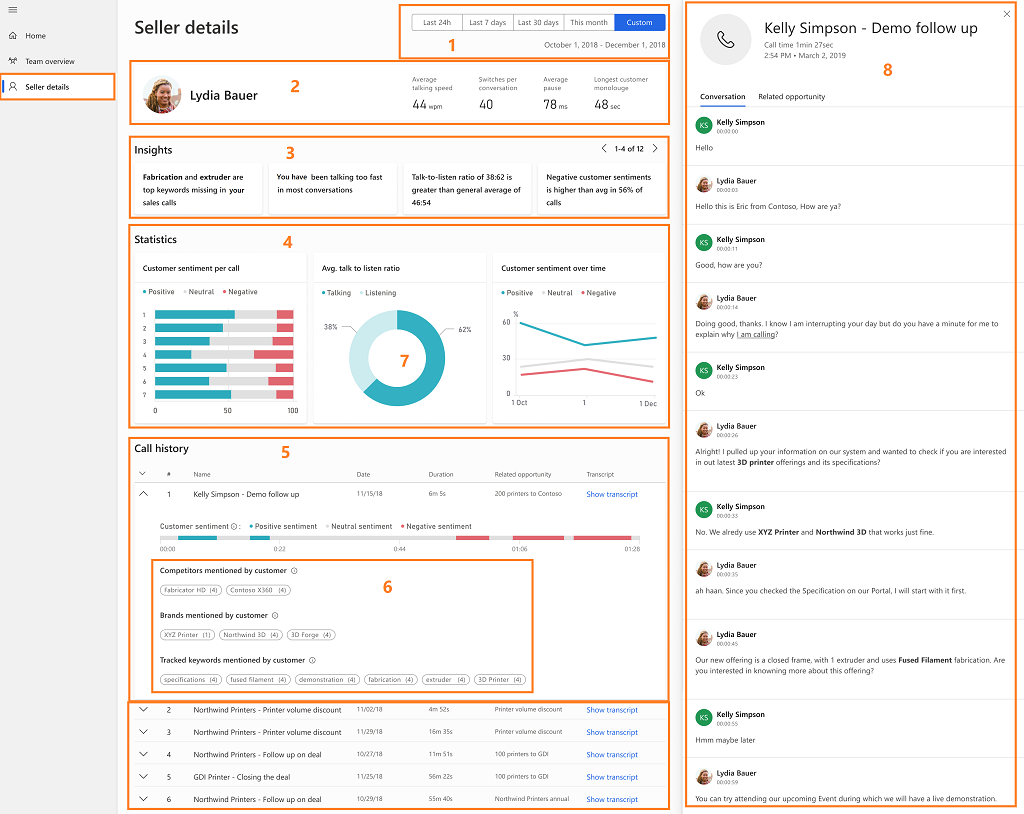
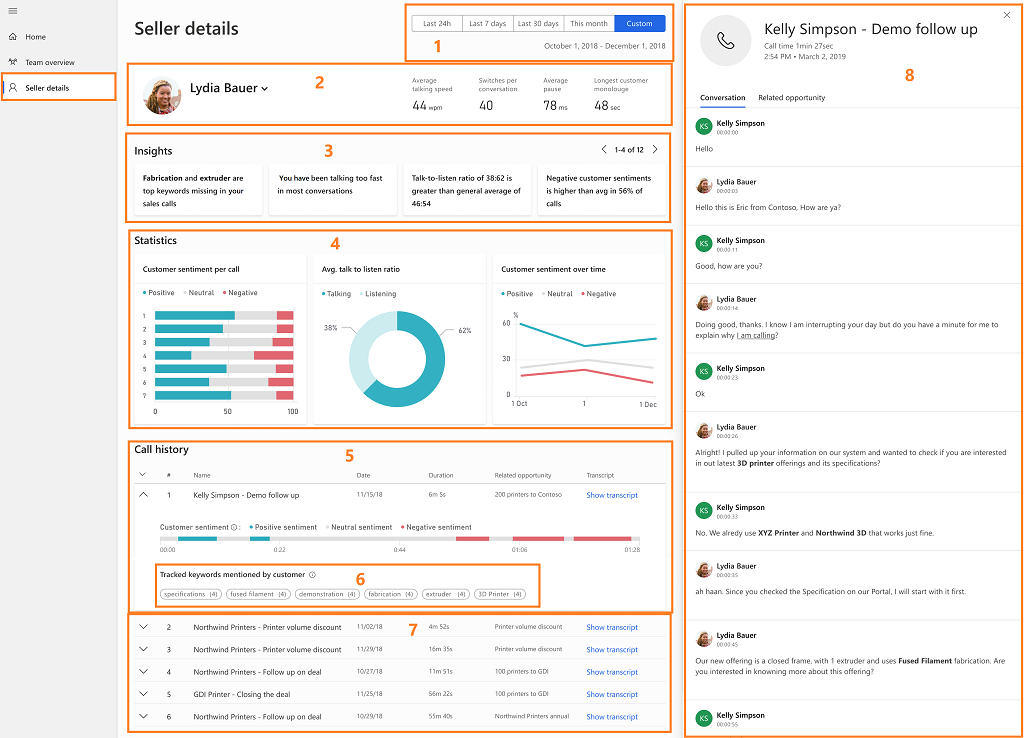
updated

Changed region(s): [[0.0, 0.0, 1.0, 1.0], [0.875, 0.0935, 0.9062, 0.1247]]

diff --git a/ai-docs/sales/dynamics365-sales-insights-app-home-page.md b/ai-docs/sales/dynamics365-sales-insights-app-home-page.md
@@ -20,7 +20,7 @@ caps.latest.revision: 01
 topic-status: Drafting
 ---
 
-# View overall sales and seller insights
+# View and understand home page
 
 Applies to [!INCLUDE[pn-crm-online](../includes/pn-crm-online.md)] version 9.1.0.
 
@@ -75,7 +75,7 @@ The following image is an example of how the base KPIs are displayed.
 
 **What are customers talking about** section helps you to understand what’s happening in sales calls and what customers are talking about. Through these understandings, you can derive coaching scenarios for your sales team so that they could be more efficient during the sales calls. 
 
-This also helps in driving new sales strategic motion by looking at the keywords, brands, and competitors mentioned during the call. For example, 3D printer is trending more during customer calls and the 3D printer sales are not reaching targets. You can coach sales reps in selling the 3D printers more effectively to the customers which are not been selling before.
+This also helps in driving new sales strategic motion by looking at the keywords, brands, and competitors mentioned during the call. For example, 3D printer is trending more during customer calls and the 3D printer sales are not reaching targets. You can coach sellers in selling the 3D printers more effectively to the customers which are not been selling before.
 
 The following insights are available for you to understand what customers are talking about:
 
@@ -89,9 +89,9 @@ The following insights are available for you to understand what customers are ta
 
 ### Tracked keywords
 
-This insight shows the tracked keywords that are defined in the application and customers use the most during the sales calls. The application highlights these tracked keywords in this section. Using these tracked keywords, you can identify new sales opportunities that are related to these tracked keywords. 
+This insight shows the tracked keywords that are defined in the application and customers use the most during the sales calls. The application highlights these tracked keywords in this insight. Using these tracked keywords, you can identify new sales opportunities that are related to these tracked keywords. 
 
-The following image is an example of how the tracked keyword section is displayed:
+The following image is an example of how the tracked keyword insight is displayed:
 
   > [!div class="mx-imgBorder"]
   > ![Most tracked keywords](media/si-app-tracked-keywords.png  "Most tracked keywords")
@@ -107,18 +107,18 @@ This insight shows the number of calls where the negative customers sentiment is
 - You can analyze pain points that customers express during the call and coach your sellers to address to handle the customer conversations well. 
 - You can analyze why customers are expressing these pain points and identify selling opportunities by addressing the gaps that are causing pain points. 
 
-The following image is an example of how the customer sentiment section is displayed:
+The following image is an example of how the customer sentiment insight is displayed:
 
   > [!div class="mx-imgBorder"]
   > ![Customer sentiment](media/si-app-customer-sentiment.png  "Customer sentiment")
 
-In this example, you can see that 43% of calls have higher than average negative customer sentiment. The doughnut chart shows the percentage of calls that are positive, neutral, and negative.
+In this example, you can see that 43% of calls have higher than the average negative customer sentiment. The doughnut chart shows the percentage of calls that are positive, neutral, and negative.
 
 ### Brands detected
 
 This insight helps to discover new products and brands that customers are speaking about in sales calls, which they never spoke of in previous calls. These brands and products are not defined in the application (tracked keywords and competitors) and the application uses Microsoft Bing's knowledge repository to identify the brands and products to display. Using this insight, you can identify if any competitor brands are mentioned on the sales calls and update your sales strategies accordingly.
 
-The following image is an example of how the brands detected section is displayed:
+The following image is an example of how the brands detected insight is displayed:
 
   > [!div class="mx-imgBorder"]
   > ![New brands detected](media/si-app-brands-detected.png  "New brands detected")
@@ -129,7 +129,7 @@ In this example, you can see that 3 brands, Northwind 3D, XYG Printer, and 3D Fo
 
 This insight shows the defined competitor names that customers use most and trending upwards during the sales calls. The application highlights these competitors in this section. Using these competitors, you can identify new sales opportunities that are related to these competitors.
 
-The following image is an example of how the competitors mentioned section is displayed:
+The following image is an example of how the competitors mentioned insight is displayed:
 
   > [!div class="mx-imgBorder"]
   > ![Competitors mentioned](media/si-app-competitors-mentioned.png  "Competitors mentioned")
@@ -160,7 +160,7 @@ The following insights are available for you to understand what characterizes to
 
 This insight shows the average listen and talk ratio of top sellers and rest of the team in conversations with customers. By analyzing this insight, you can understand what working-out for top sellers while in conversation with customers to close deals and generate revenue.
 
-The following image is an example of how the talk-to-listen ratio section is displayed:
+The following image is an example of how the talk-to-listen ratio insight is displayed:
 
   > [!div class="mx-imgBorder"]
   > ![Comparison of Talk-to-listen ratio](media/si-app-talk-to-listen-ratio.png  "Comparison of Talk-to-listen ratio")
@@ -171,18 +171,18 @@ In this example, you can observe that the top sellers talk (60%) more than liste
 
 This insight shows the keywords that are used by the top sellers use more frequently in conversations with customers. By analyzing this insight, you can understand what words the top sellers use that helps them to close deals and generate revenue.
 
-The following image is an example of how the what are they talking about section is displayed:
+The following image is an example of how the what are they talking about insight is displayed:
 
   > [!div class="mx-imgBorder"]
   > ![Keywords top sellers are talking about](media/si-app-what-they-are-talking-about.png  "Keywords that top sellers are talking about")
 
-In this example, you can see that Next steps, Discount, and VIP are the top words mentioned by your top sellers. The bubbles show the top five words that are trending and the number of times that these keywords were mentioned in the calls. The dark-shade bubbles are the trending words.
+In this example, you can see that Next steps, Discount, and VIP are the top words mentioned by your top sellers. The bubbles show the top 20 keywords that are trending and the number of times that these keywords were mentioned in the calls. The dark-shade bubbles are the most trending keywords.
 
 ### Customer sentiment
 
-This section shows how top sellers are doing when compared to the team in terms of positive, neutral, and negative customers sentiments during sales calls. Using this insight, you can analyze what makes the tops sellers more efficient in addressing the customer pain points during the call and how you can coach your other sellers to increase the sentient levels.
+This insight shows how top sellers are doing when compared to the team in terms of positive, neutral, and negative customers sentiments during sales calls. Using this insight, you can analyze what makes the tops sellers more efficient in addressing the customer pain points during the call and how you can coach your other sellers to increase the sentient levels.
 
-The following image is an example of how the customer sentiment section is displayed:
+The following image is an example of how the customer sentiment insight is displayed:
 
   > [!div class="mx-imgBorder"]
   > ![Comparison of customer sentiment](media/si-app-customer-sentiment-top-sellers.png  "Comparison of customer sentiment")
@@ -191,9 +191,9 @@ In this example, you can see that top sellers (42%) are driving more negative cu
 
 ### Switch rate
 
-This section shows the rate of which top sellers are talking and listing in conversations with customers and this indicates a sign of engagement during conversations. Using this insight, you can understand the switch rate of top sellers per hour and identify coaching opportunities for other sellers to improve on switch rate.
+This insight shows the rate of which top sellers are talking and listing in conversations with customers and this indicates a sign of engagement during conversations. Using this insight, you can understand the switch rate of top sellers per hour and identify coaching opportunities for other sellers to improve on switch rate.
 
-The following image is an example of how the switch rate section is displayed:
+The following image is an example of how the switch rate insight is displayed:
 
   > [!div class="mx-imgBorder"]
   > ![Switch rate of talk to listen](media/si-app-switch-rate.png  "Switch rate of talk to listen")
@@ -202,9 +202,9 @@ In this example, you can see that top seller (45 per hour) are switching more du
 
 ### Engagement with customers
 
-This section helps you to understand what type of communication mode that top sellers are spending their time in engaging with customers. Using this insight, you can identify coaching opportunities for other sellers on communication mode in engaging with customers.
+This insight helps you to understand what type of communication mode that top sellers are spending their time in engaging with customers. Using this insight, you can identify coaching opportunities for other sellers on communication mode in engaging with customers.
 
-The following image is an example of how the engagement with customers section is displayed:
+The following image is an example of how the engagement with customers insight is displayed:
 
   > [!div class="mx-imgBorder"]
   > ![Top sellers communication mode](media/si-app-engagement-with-customer.png  "Top sellers communication mode")
@@ -213,7 +213,7 @@ In this example, you can see that top sellers are spending more time on meeting 
 
 ## Are my team’s deals on track?
 
-Are my team’s deals on track section helps you to understand how your team’s opportunities and leads are doing in the current sales period. Through these understanding, you can identify the opportunities and leads with higher revenue that at risk and need your attention to coach the individual sales reps to improve the health.
+Are my team’s deals on track section helps you to understand how your team’s opportunities and leads are doing in the current sales period. Through these understanding, you can identify the opportunities and leads with higher revenue that at risk and need your attention to coach the individual sellers to improve the health.
 
 The following insights are available for you to understand the deals:
 
@@ -222,25 +222,25 @@ The following insights are available for you to understand the deals:
 
 ### Opportunities at risk
 
-This section helps you to understand the opportunities that are high in revenue and at risk so that you can spend more time by coaching the sales rep who is working with these opportunities to turn into a winning deal.
+This insight helps you to understand the opportunities that are high in revenue and at risk so that you can spend more time by coaching the sales rep who is working with these opportunities to turn into a winning deal.
 
-The following image is an example of how the opportunities at risk section is displayed:
+The following image is an example of how the opportunities at risk insight is displayed:
 
   > [!div class="mx-imgBorder"]
   > ![Opportunities that are at risk](media/si-app-opportunities-at-risk.png  "Opportunities that are at risk")
 
-In this example, you can see that opportunities (Red bubbles) that are high in revenue are poor in health score and are at risk. You need to coach the sales reps who are handling these opportunities that are at risk and turn them into a winning deal.
+In this example, you can see that opportunities (Red bubbles) that are high in revenue are poor in health score and are at risk. You need to coach the sellers who are handling these opportunities that are at risk and turn them into a winning deal.
 
 ### Leads at risk
 
-This section helps you to understand the leads that are losing momentum and at risk so that you can spend more time by coaching the sales rep who is working with these leads to turn into opportunities.
+This insight helps you to understand the leads that are losing momentum and at risk so that you can spend more time by coaching the seller who is working with these leads to turn into opportunities.
 
-The following image is an example of how the leads at risk section is displayed:
+The following image is an example of how the leads at risk insight is displayed:
 
   > [!div class="mx-imgBorder"]
   > ![Leads that are at risk](media/si-app-leads-at-risk.png  "Leads that are at risk")
  
-In this example, you can see that leads (Red bubbles) that are losing momentum with poor health score and are at risk. You need to coach the sales reps who are handling these leads that are losing momentum and turn them into opportunities.
+In this example, you can see that leads (Red bubbles) that are losing momentum with poor health score and are at risk. You need to coach the sellers who are handling these leads that are losing momentum and turn them into opportunities.
 
 ## Call recording KPIs
 

diff --git a/ai-docs/sales/conversation-intelligence-seller-details.md b/ai-docs/sales/conversation-intelligence-seller-details.md
@@ -42,7 +42,7 @@ As a sales manager, the **Seller details** page helps you to analyze the overall
 
 -	Comment on call transcripts and share with sellers.
 
-<!--You can provide coaching comments to sales reps through emails.-->
+- You can provide coaching comments to sales reps through emails.
 
 The following image is an example of how the seller page is displayed for sales managers:
 
@@ -58,7 +58,7 @@ Let's look at the KPIs and insights in detail:
 |**3. Insights**|Displays what’s happening with the seller and the latest trends such as customer sentiments and keywords that are trending.|
 |**4. Statistics** |•	**Average customer sentiment level:** Displays the customer sentiments (positive, negative, and neutral) for each call that the seller handled.<br>•	**Average talk to listen ratio:** Displays the average talk and listen ratio of the seller during calls with a customer.<br>•  **Sentiment over time:** Displays how the three customer sentiments (positive, negative, and neutral) are behaving and spanning across the specified timeframe for the seller.|
 |**5. Call history**|Displays the sentiments and keywords across the call. Open a specific call and view the keywords and sentiments across the timeline of the call, go to a moment, and look at the call transcript. Select **Show transcript** to view the conversation transcript.|
-|**6. Brands, tracked Keywords, and competitors**|Displays the defined keywords, competitors, and brands that customers used most during conversations with the seller. Selecting a defined keyword, competitor, or brand highlights the timeline of the conversation where it is mentioned.|
+|**6. Tracked Keywords mentioned by customers**|Displays the defined keywords that customers used most during conversations with the seller. Selecting a defined keyword highlights the timeline of the conversation where it is mentioned.|
 |**7. Calls**|Displays the list of calls handled by the seller. Select the call to display the transcript and timeline. |
 |**8. Transcript**|Provides a written record of the call. You can review the transcript and leave a comment on how the sellers could handle the situation better.<br>On a selected timeline, select **Add comment** to provide necessary inputs to the seller and then select **Save**.<br> The bolded text in the transcript are the brands, tracked keywords, and competitors mentioned in the conversation.|
 
@@ -88,7 +88,7 @@ Let's look at the KPIs and insights in detail:
 |**3. Insights**|Displays what’s happening with you and the latest trends such as customer sentiments and keywords that are trending.|
 |**4. Statistics** |•	**Average customer sentiment level:** Displays the customer sentiments (positive, negative, and neutral) for each call that you have handled.<br>•	**Average talk to listen ratio:** Displays the average talk and listen ratio of you during calls with a customer.<br>•  **Sentiment over time:** Displays how the three customer sentiments (positive, negative, and neutral) are behaving and spanning across the specified timeframe for you.|
 |**5. Call history**|Displays list of calls. Open a specific call and view the keywords and sentiments across the timeline of the call, go to a moment, and look at the call transcript. Select **Show transcript** to view the conversation transcript.|
-|**6. Brands, tracked Keywords, and competitors**|Displays the defined keywords, competitors, and brands that the customer used most during the conversation. Selecting a defined keyword, competitor, or brand highlights the timeline of the conversation on where it is mentioned.|
+|**6. Tracked Keywords mentioned by customers**|Displays the defined keywords that the customer used most during the conversation. Selecting a defined keyword highlights the timeline of the conversation on where it is mentioned.|
 |**7. Calls**|Displays the list of calls handled by you. Select the call to display the transcript and timeline. |
 |**8. Transcript**|Provides a written record of the call. You can review the transcript and comments that are posted by your manager or coach on the timeline. You can provide replies to the comments appropriately.<br>On a selected timeline, select **Add comment** to provide necessary replies or self-comments, and then select **Save**.<br> The bolded text in the transcript are the brands, tracked keywords, and competitors mentioned in the conversation.|
 

diff --git a/ai-docs/sales/faqs-sales-insights-app.md b/ai-docs/sales/faqs-sales-insights-app.md
@@ -1,0 +1,86 @@
+---
+title: "Frequently asked questions for Dynamics 365 Sales Insights | MicrosoftDocs"
+description: "Frequently asked questions for Dynamics 365 Sales Insights app"
+keywords: "FAQs, Dynamics 365 Sales Insights, AI for sales, Sales AI, Sales Insights"
+ms.date: 07/31/2019
+ms.service: crm-online
+ms.custom: 
+ms.topic: article
+applies_to:
+  - "Dynamics 365 (online)"
+  - "Dynamics 365 Version 9.x"
+ms.assetid: 673c693b-9265-4641-bb31-a72b8a97bb3a
+author: udaykirang
+ms.author: udag
+manager: shujoshi
+ms.reviewer: 
+ms.suite: 
+ms.tgt_pltfrm: 
+caps.latest.revision: 01
+topic-status: Drafting
+---
+
+# Frequently asked questions for Sales Insights application
+
+**What languages are supported now?**<br>
+The application supports the following model languages:
+
+- English
+- German
+- French
+- Italian
+- Spanish
+- Japanese
+- Brazilian Portuguese
+- Chinese (simplified)
+
+The application supports the following machine learning model languages for contextual insights capabilities:
+
+- English
+
+
+**When will you expand to support my region?**<br>
+The application is supported in the following regions:
+
+- North American (NAM)
+- Canada (CAN)
+- Europe, the Middle East, and Africa (EMEA)
+- Great Britain (GBR)
+- Japan (JPN)
+- Oceania (OCE)
+- India (IND) 
+
+**How long does it take for data updates to reflect in the app?**<br>
+The data is refreshed periodically and could take up to 12 hours to reflect. We continue to make improvements to reduce this delay.
+
+**Can sellers (or non-managers) use this app?**<br>
+Yes, the application is also available for sellers and can view their conversational insights.
+
+**Is an admin needed to enable the app for my organization?**<br>
+Yes. Administrator must configure the application for you to use. If administrator did not configure the application, you can explore the application with the demo data that is provided.
+
+**Which telephony system do you support?**<br>
+The application is independent of telephony systems. If you have stereo call recordings (two-channel stereo), we process them at scale to generate insights.
+
+**What does the onboarding experience include?** <br>
+As part of the onboarding experience, you must provide the access key to the Azure blob location where you upload your call recording files for processing. You must adhere to standard metadata format (in JSON) of conversation intelligence and upload that along with every call recording file. Apart from this, you must share trackers that you care about along with the competitive brands and products for conversation intelligence to track these words across calls.
+
+**How is the sentiment model built?**<br>
+Conversation intelligence transcribes the calls into text and generates sentiment from the text in the conversation.
+
+**I have mono-channel recording files. Can I still use conversation intelligence?**<br>
+No, we DO NOT process mono-channel call recording files. We only support stereo-type call recording files.
+
+**How long does it take to see the results?**<br>
+Conversation intelligence takes a few minutes to process and display the data on the dashboard, depending on the size of the call recording files and format. You must have at least 10 call recording files to process and display the data.
+
+**Do you retain the call recordings?**<br>
+No. The call recordings are deleted as soon as the audio file is processed.
+
+### See also
+
+- [View home page](dynamics365-sales-insights-app-home-page.md)
+
+- [View team information](conversation-intelligence-team-overview.md)
+
+- [View seller information](conversation-intelligence-seller-details.md)

diff --git a/ai-docs/sales/configure-conversation-intelligence-call-data.md b/ai-docs/sales/configure-conversation-intelligence-call-data.md
@@ -87,6 +87,7 @@ Review the following requirements for audio and JSON files before you upload:
   | | **Note**: You must use at least one parameter from `AgentAADUserId`, `AgentCrmUserId`, or `AgentAccountEmail` while creating a JSON file. When you use other parameters, ensure that the details are specific to the same agent. In the below example JSON file, we have used `AgentAADUserId`. |
   | `CreatedTimestamp`| Specifies the time at which the audio file is created in milliseconds and calculated based on the UNIX Epoch time. For example, when the audio file is **14 Dec 2018 15:00:00 GMT**, then the corresponding Epoch timestamp in milliseconds is **1544779800000**.|
   | `Locale` | Specifies the language used in the call. Currently, we support en-US, en-GB, de-DE, fr-FR, it-IT, es-ES, es-MX, ja-JP, pt-BR, and zh-CN. |
+  | `Id`| Specifies the unique identification code of the call. Generate this code using the GUID generator. |
   | `StartTime` | Specifies the start time of the call in milliseconds and calculated based on the UNIX Epoch time. For example, when the call start time is **14 Dec 2018 12:39:56 GMT**, then the corresponding Epoch timestamp in milliseconds is **1544791196000**. |
   | `Direction` | Specifies whether the call is inbound or outbound. |
   | `FileName` | Specifies the name of the audio file. |
@@ -99,7 +100,6 @@ Review the following requirements for audio and JSON files before you upload:
   | `CallAccountCrmId` |  (Optional) Specifies the unique identification code of the account. |
   | `CallPhoneCallCrmId` | (Optional) Specifies the unique identification code generated in Dynamics 365 for Sales admin center for the sales rep. |
   | `IsAgentRecordingOnly` | (Optional) Specifies the audio file contains only the voice of your sales rep. The value is specified in True or False. By default, the value is False. |
-  | `Id`| (Optional) Specifies the unique identification code of the call. Generate this code using the GUID generator. |  
   | `QueueId`| (Optional) Specifies the unique identification code for the queue. |    
   | `QueueName`| (Optional) Specifies the name of the queue in which the sales rep is on. |  
   | `Provider`| (Optional) Specifies the service provider of the call such as Skype. |  

diff --git a/ai-docs/sales/dynamics365-sales-insights-app.md b/ai-docs/sales/dynamics365-sales-insights-app.md
@@ -30,6 +30,10 @@ This application is designed to help sales managers and sellers in their day-to-
 
 **As a sales manager, you can**
 
+-	Understand what customers are talking about to get strategic insights on trending tracked keywords, brands, and competitors that allows you to design sales strategies and training of your team. To learn more, see [View home page](dynamics365-sales-insights-app-home-page.md)
+
+-	Understand if your opportunities and leads are loosing momentum and be on top them to convert into deals. To learn more, see [Are my team’s deals on track?](dynamics365-sales-insights-app-home-page.md#are-my-teams-deals-on-track). 
+
 -	View and compare what’s happening in sales calls and insights on the behaviors of your top sellers<!--, and the sales pipeline for the timeline-->. To learn more, see [View team information](conversation-intelligence-team-overview.md)
 
 -	View team’s insights, customer sentiment, and team’s conversational style<!--, and sales pipeline-->. To learn more, see [View team information](conversation-intelligence-team-overview.md).

diff --git a/ai-docs/sales/fre-setup-sales-insight-app.md b/ai-docs/sales/fre-setup-sales-insight-app.md
@@ -22,7 +22,7 @@ topic-status: Drafting
 
 # First-run set up experience of Sales Insight application
 
-When you sign into the Sales Insights application, the application will be available for you to use and explore the various features through the provided demo data. However, you must set up .
+When you sign into the Sales Insights application, the application will be available for you to use and explore the various features through the provided demo data.
 After you sign in, you can set up the application depending on the role that is assigned to you.
 
 -	As an administrator, you can set up the complete application including connecting Dynamics 365 environment, grant app permissions, connect call data, enable preview, and define tracked key words and competitors to use the features that the application offers. To learn more, see [Administrator setting up application](#administrator-setting-up-application).

diff --git a/ai-docs/sales/business-qa.md b/ai-docs/sales/business-qa.md
@@ -48,6 +48,12 @@ To get started asking questions, you can use the search text box on the Sales In
 
 On the home page, type a conversational question in the **search** text box and press **Enter**. For example, enter **Which opportunities closed last month?** and the **Answers** screen opens with the potential results that are related to the question.
 
+> [!IMPORTANT]
+> If you don't know how to ask a question, type **help** in the **search** text box and press **Enter**. A list of possible questions that the application can answer is displayed. 
+> > [!div class="mx-imgBorder"]
+> > ![Get help on how to ask a question](media/si-app-q-a-help.png "Get help on how to ask a question")
+
+
 > [!NOTE]
 > You can also open the **Answers** screen by selecting the chat icon.
 

diff --git a/ai-docs/sales/TOC.md b/ai-docs/sales/TOC.md
@@ -34,11 +34,11 @@
 #### [Enable preview features](../sales/enable-preview-features-sales-insights-app.md)
 
 ### User guide
-#### [View overall sales and seller insights](../sales/dynamics365-sales-insights-app-home-page.md)
+#### [View home page](../sales/dynamics365-sales-insights-app-home-page.md)
 #### [Natural language Q&A](../sales/business-qa.md)
 #### [View team information](../sales/conversation-intelligence-team-overview.md)
 #### [View seller information](../sales/conversation-intelligence-seller-details.md)
 
-### [FAQs for Sales Insights application](../sales/faqs-sales-manager-app.md)
+### [FAQs for Sales Insights application](../sales/faqs-sales-insights-app.md)
 
 ### [Privacy notice](../sales/privacy-notice-manager.md)

diff --git a/ai-docs/sales/prereq-sales-insights-app.md b/ai-docs/sales/prereq-sales-insights-app.md
@@ -28,7 +28,7 @@ Verify the following requirements before setting up the Sales Insights applicati
 
 -	You must have a Dynamics 365 for Sales organization. 
 
--	You must purchase a **Dynamics 365 Sales Insights** license. 
+-	You must purchase a [Dynamics 365 Sales Insights](https://portal.office.com/Signup/MainSignUp.aspx?OfferId=5be85c9f-df71-4bcf-ac2f-b2a05b4a1f99) license. 
 
 -	You must get access to Dynamics 365 Sales Insights application. If you do not have access, follow these steps:
     
